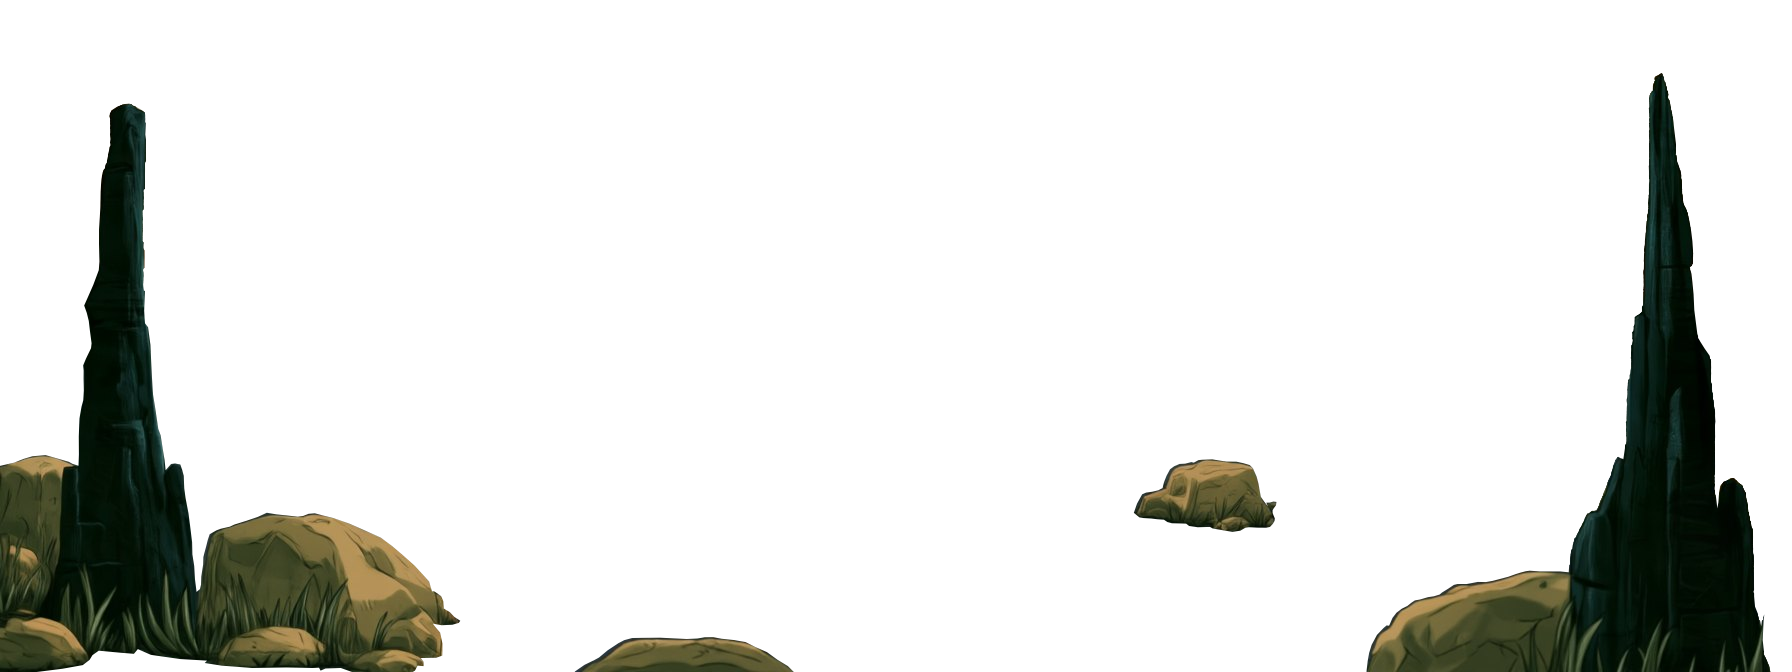
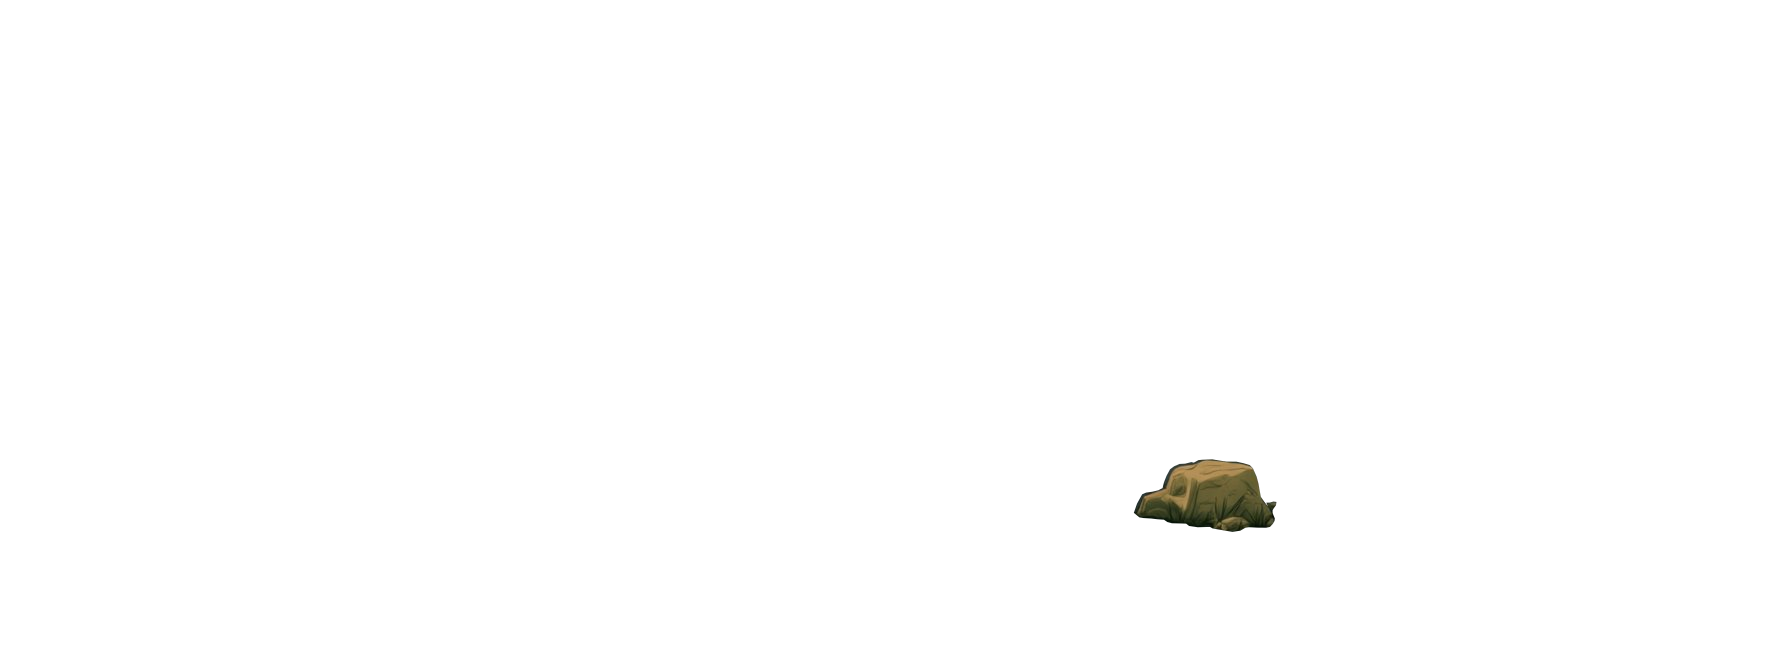
Lagerbild: hintere Felsen nur bis zur Wackeligen Hütte vorn, der rechte nicht vor dem Krempelplatz
Einträge im Stapel können Bedingungen haben (bis_lager, nicht_mit). Ab der
Stabilen Hütte steht das Haus vor beiden hinteren Felsen; der Felsen rechts
vom Feuer liegt hinter Aufbewahrung 1.

Claude-Session: https://claude.ai/code/session_0117M4aYJ5RoPwj7oU8m6XcB

Changed region(s): [[0.0, 0.1562, 0.25, 1.0], [0.75, 0.125, 1.0, 1.0], [0.3125, 0.9375, 0.4375, 1.0]]

diff --git a/js/ui/camp.js b/js/ui/camp.js
@@ -57,7 +57,8 @@ const drawnUpTo = (layers, stage) => layers.reduce((best, l) => (l.stufe <= stag
 // at its level (or the highest level below it with a drawing), the built Deko
 // where the stack has its place, and the pieces cut out of the picture shown
 // (rocks, the fire, the pillars), so that they stand in front of what lies
-// behind them. -> [{ src, cutout }]
+// behind them, where their conditions hold (only up to a camp stage, not
+// with a certain drawing). -> [{ src, cutout }]
 export function campLayers(world, catalog, picture = { shown: 1, time: 'tag' }) {
   const stack = catalog.camp.layers || [];
   const building = drawnUpTo(stack.filter((l) => l.art === 'gebaeude'), world.camp.stage);
@@ -69,7 +70,8 @@ export function campLayers(world, catalog, picture = { shown: 1, time: 'tag' }) 
     else if (l.art === 'einrichtung' && l.stufe === level[l.id]) layers.push({ src: l.bild, cutout: false });
     else if (l.art === 'deko') {
       for (const d of catalog.deko) if (dekoBuilt(world, d.id) && d.bild) layers.push({ src: d.bild, cutout: false });
-    } else if (l.art === 'ausschnitt' && l.bildstufe === picture.shown && l.bilder[picture.time]) {
+    } else if (l.art === 'ausschnitt' && l.bildstufe === picture.shown && l.bilder[picture.time]
+      && !(l.bisLager < world.camp.stage) && !(l.nichtMit || []).some((n) => level[n.id] === n.stufe)) {
       layers.push({ src: l.bilder[picture.time], cutout: true });
     }
   }

diff --git a/sw.js b/sw.js
@@ -5,7 +5,7 @@
 // The real app and its test copy can lie side by side on one web space.
 // Each keeps its own store, named after its folder, and only clears its own.
 const FOLDER = new URL(self.registration.scope).pathname;
-const CACHE = `envoy-v39 ${FOLDER}`;
+const CACHE = `envoy-v40 ${FOLDER}`;
 const NETWORK_TIMEOUT_MS = 3500;
 
 self.addEventListener('install', () => self.skipWaiting());

diff --git a/js/config.js b/js/config.js
@@ -1,7 +1,7 @@
 // Fixed values of the game. Everything the rules depend on lives here,
 // so it can be checked in one place against docs/spezifikation.md.
 
-export const APP_VERSION = '4.16.0';
+export const APP_VERSION = '4.16.1';
 
 // Pictures are asked for with the version of the app, so after an update a
 // device fetches a new drawing instead of showing an old copy it kept.

diff --git a/tools/lager_ebenen.py b/tools/lager_ebenen.py
@@ -14,14 +14,19 @@ each drawn in its place on the day picture):
                                   (a rock, the fire, a pillar), so that it
                                   stands in front of what lies behind it
 
+An entry can come with conditions, as (entry, {...}):
+    "bis_lager": n                only up to camp stage n
+    "nicht_mit": ["einrichtung_<id>_<stufe>", ...]
+                                  not while that drawing is shown
+
 The app shows of each kind what is built: the building of the camp stage,
-each facility at its level (else the level below with a drawing), all
-cut-outs. The tables do not name these pictures; the conversion
-(tools/convert_data.py) reads ORDER and finds the files.
+each facility at its level (else the level below with a drawing), the
+cut-outs whose conditions hold. The tables do not name these pictures; the
+conversion (tools/convert_data.py) reads ORDER and finds the files.
 
 The cut-outs come from the user's pieces in tools/lager-ausschnitte/<name>.png.
 Running this script lays each run of cut-outs that follow each other in ORDER
-together, by day as they are:
+with the same conditions together, by day as they are:
     assets/lager/ausschnitt_<first name>_tag.png
 and for the other times of day the same outlines cut out of that time's
 picture (stufe_1_<zeit>.jpg), so that they have its light:
@@ -62,7 +67,9 @@ ORDER = [
     "einrichtung_pilzlager_3",       # 12 Pilzholzschuppen
     "einrichtung_pilzlager_2",       # 13 Pilzholzgestell
     "einrichtung_pilzlager_1",       # 14 Pilzholzstapel
-    "ausschnitt:fels_mitte",         # 15 the big rock behind the fire
+    # 15 the big rock behind the fire: in front of the beds up to the Wackelige
+    # Hütte; from the Stabile Hütte on the house stands in front of it
+    ("ausschnitt:fels_mitte", {"bis_lager": 3}),
     "einrichtung_aufbewahrung_4",    # 16 Kleiderschrank
     "einrichtung_aufbewahrung_3",    # 17 Truhe
     "einrichtung_aufbewahrung_2",    # 18 Kiste
@@ -73,7 +80,9 @@ ORDER = [
     "einrichtung_steinlager_2",      # 23 Steinpferch
     "einrichtung_steinlager_1",      # 24 Steinstapel
     "deko",
-    "ausschnitt:fels_rechts",        # 25 the rock right of the fire
+    # 25 the rock right of the fire: in front of the Truhe, behind the
+    # Krempelplatz, and from the Stabile Hütte on behind the house
+    ("ausschnitt:fels_rechts", {"bis_lager": 3, "nicht_mit": ["einrichtung_aufbewahrung_1"]}),
     "ausschnitt:saeule_links",       # 26
     "ausschnitt:saeule_rechts",      # 27
     "ausschnitt:fels_vorn",          # 28 the rock at the bottom
@@ -82,17 +91,27 @@ ORDER = [
 ONLY_DAY = {"funken"}
 
 
+def stack():
+    """ORDER as [(entry, conditions), ...]."""
+    return [(e, {}) if isinstance(e, str) else e for e in ORDER]
+
+
 def cutout_runs():
-    """The runs of cut-outs that follow each other in ORDER: [[name, ...], ...]."""
-    runs, run = [], []
-    for entry in ORDER:
-        if entry.startswith("ausschnitt:"):
+    """The runs of cut-outs that follow each other in ORDER with the same
+    conditions: [([name, ...], conditions), ...]."""
+    runs, run, run_cond = [], [], None
+    for entry, cond in stack():
+        if entry.startswith("ausschnitt:") and (not run or cond == run_cond):
             run.append(entry.split(":", 1)[1])
-        elif run:
-            runs.append(run)
-            run = []
+            run_cond = cond
+            continue
+        if run:
+            runs.append((run, run_cond))
+            run, run_cond = [], None
+        if entry.startswith("ausschnitt:"):
+            run, run_cond = [entry.split(":", 1)[1]], cond
     if run:
-        runs.append(run)
+        runs.append((run, run_cond))
     return runs
 
 
@@ -106,7 +125,7 @@ def piece(name):
 
 def main():
     from PIL import Image, ImageChops
-    for names in cutout_runs():
+    for names, _ in cutout_runs():
         pieces = {name: piece(name) for name in names}
         first = names[0]
 

diff --git a/tools/convert_data.py b/tools/convert_data.py
@@ -202,14 +202,16 @@ def camp_layers(report):
       {"art": "gebaeude", "stufe": 3, "bild": ...}      building of a camp stage (or a part of it)
       {"art": "einrichtung", "id": "schlafplatz", "stufe": 2, "bild": ...}
       {"art": "deko"}                                   where the built Deko lies
-      {"art": "ausschnitt", "bildstufe": 1, "bilder": {"tag": ..., "nacht": ...}}
-                                                        cut out of the camp picture of that stage"""
+      {"art": "ausschnitt", "bildstufe": 1, "bilder": {"tag": ..., "nacht": ...},
+       "bisLager": 3, "nichtMit": [{"id": "aufbewahrung", "stufe": 1}]}
+                                                        cut out of the camp picture of that stage,
+                                                        with its conditions (if any)"""
     sys.path.insert(0, str(ROOT / "tools"))
-    from lager_ebenen import ORDER, PICTURE_STAGE, cutout_runs
+    from lager_ebenen import PICTURE_STAGE, stack, cutout_runs
     folder, size = PICTURES["lager"]
-    starts = {run[0] for run in cutout_runs()}
+    starts = {names[0] for names, _ in cutout_runs()}
     layers = []
-    for entry in ORDER:
+    for entry, cond in stack():
         if entry == "deko":
             layers.append({"art": "deko"})
             continue
@@ -221,8 +223,20 @@ def camp_layers(report):
             if not times:
                 report.warn("-", f"Ausschnitt {name} fehlt noch (python3 tools/lager_ebenen.py)")
                 continue
-            layers.append({"art": "ausschnitt", "bildstufe": PICTURE_STAGE,
-                           "bilder": {t: f"{folder}/ausschnitt_{name}_{t}.png" for t in times}})
+            layer = {"art": "ausschnitt", "bildstufe": PICTURE_STAGE,
+                     "bilder": {t: f"{folder}/ausschnitt_{name}_{t}.png" for t in times}}
+            if "bis_lager" in cond:
+                layer["bisLager"] = cond["bis_lager"]
+            not_with = []
+            for other in cond.get("nicht_mit", []):
+                m = re.fullmatch(r"einrichtung_([a-z]+)_(\d+)", other)
+                if not m:
+                    report.error("-", f"tools/lager_ebenen.py: nicht_mit '{other}' unbekannt")
+                    continue
+                not_with.append({"id": m.group(1), "stufe": int(m.group(2))})
+            if not_with:
+                layer["nichtMit"] = not_with
+            layers.append(layer)
             continue
         path = ROOT / folder / f"{entry}.png"
         if not path.exists():

diff --git a/docs/spezifikation.md b/docs/spezifikation.md
@@ -643,13 +643,19 @@ gezeichnet, wie bei Anziehpuppen. Der Stapel steht als Liste `ORDER` in
 | Gebäude | `gebaeude_<stufe>.png`, manche in Teilen (`gebaeude_3_hinten`, `gebaeude_3_vorn`, `gebaeude_5_stiel`) | alle Teile des Gebäudes der Lagerstufe; fehlt es, das der Stufe davor |
 | Einrichtung | `einrichtung_<id>_<stufe>.png` | jede Einrichtung auf ihrer Stufe; fehlt die Zeichnung, die der Stufe davor |
 | Deko | `deko_<id>.png` (Platz `deko` im Stapel) | jede gebaute Deko mit Zeichnung |
-| Ausschnitt | aus dem Grundbild ausgeschnitten: Felsen, Feuer, Funken, Säulen | immer, damit sie vor dem stehen, was im Stapel davor kommt |
+| Ausschnitt | aus dem Grundbild ausgeschnitten: Felsen, Feuer, Funken, Säulen | damit sie vor dem stehen, was im Stapel davor kommt; manche nur unter Bedingungen (siehe unten) |
 
 Die Reihenfolge ist: die Gebäude, dahinter liegende Teile zuerst (die Wackelige Hütte in
 einem hinteren Teil hinter den Betten), die Schlafplätze, vor ihnen der Stängel im
 Steinhäuschen und der vordere Teil der Wackeligen Hütte, die Pilzlager, der große Felsen
 hinter dem Feuer, die Aufbewahrung, Feuer und Funken, die Steinlager, die Deko, zuletzt der
 Felsen rechts vom Feuer, die beiden Säulen und der Felsen ganz vorn.
+
+Ein Eintrag im Stapel kann Bedingungen haben: nur bis zu einer Lagerstufe (`bis_lager`) oder
+nicht, solange eine bestimmte Zeichnung zu sehen ist (`nicht_mit`). So stehen die beiden
+hinteren Felsen (hinter dem Feuer und rechts davon) nur bis zur Wackeligen Hütte vorn; ab der
+Stabilen Hütte steht das Haus vor ihnen. Der Felsen rechts vom Feuer steht vor der Kiste und
+der Truhe, aber hinter dem Krempelplatz (Aufbewahrung 1).
 
 Die Ausschnitte zeichnet die Nutzerin aus dem Tagesbild aus; sie liegen in
 `tools/lager-ausschnitte/`. `tools/lager_ebenen.py` legt Ausschnitte, die im Stapel

diff --git a/README.md b/README.md
@@ -119,7 +119,7 @@ Auf dem Mac geht es auch direkt: im Projektordner `python3 tools/convert_data.py
 | Gebäude im Lagerbild | `assets/lager/gebaeude_<n>[_<teil>].png` | 1792 × 672, transparent, das Gebäude der Lagerstufe ab 2, an seinem Platz gezeichnet, auch in Teilen (hinter und vor den Betten); fehlt eine Stufe, das der Stufe davor |
 | Einrichtung im Lagerbild | `assets/lager/einrichtung_<id>_<stufe>.png` | 1792 × 672, transparent, an ihrem Platz gezeichnet; fehlt eine Stufe, die davor |
 | Deko im Lagerbild | `assets/lager/deko_<id>.png` | 1792 × 672, transparent, an ihrem Platz gezeichnet |
-| Ausschnitte im Lagerbild | `assets/lager/ausschnitt_<name>_<zeit>.png` | 1792 × 672, transparent: Felsen, Feuer, Säulen aus dem Bild, damit sie vor dem stehen, was dahinter liegt; macht `tools/lager_ebenen.py` |
+| Ausschnitte im Lagerbild | `assets/lager/ausschnitt_<name>_<zeit>.png` | 1792 × 672, transparent: Felsen, Feuer, Säulen aus dem Bild, damit sie vor dem stehen, was dahinter liegt, manche nur bis zu einer Lagerstufe oder nicht mit einer bestimmten Einrichtung; macht `tools/lager_ebenen.py` |
 | Portrait des Envoy | `portrait.png` im Ordner jeder Figur | quadratisch, Hintergrund frei; wird wie die Figur umgefärbt |
 | Karte | `assets/welt/karte.jpg` | Seitenverhältnis 3:2, z. B. 2400 × 1600 |
 | App-Symbol | `assets/app/` | 180, 192, 512, dazu `icon-maskable-512.png` mit mehr Rand für runde Masken |

diff --git a/CLAUDE.md b/CLAUDE.md
@@ -238,7 +238,8 @@ ihrem Platz gezeichnet und unverändert übernommen): Gebäude `assets/lager/geb
 Einrichtungen `einrichtung_<id>_<stufe>.png`, Deko `deko_<id>.png` und Ausschnitte aus dem
 Bild (Felsen, Feuer, Säulen; ihre Teile in `tools/lager-ausschnitte/`, je Tageszeit
 `ausschnitt_<name>_<zeit>.png`). Die Reihenfolge von hinten nach vorn ist die der Nutzerin
-und steht als `ORDER` in `tools/lager_ebenen.py`; das Skript macht die Ausschnitte. Neue
+und steht als `ORDER` in `tools/lager_ebenen.py` (ein Eintrag kann Bedingungen haben: nur bis
+zu einer Lagerstufe, nicht mit einer bestimmten Einrichtung); das Skript macht die Ausschnitte. Neue
 Ebenen legt sie durchnummeriert in den Ordner `LagerPNGs` im Testordner auf dem Webspace.
 Karte
 `assets/welt/karte.jpg` (3:2).
